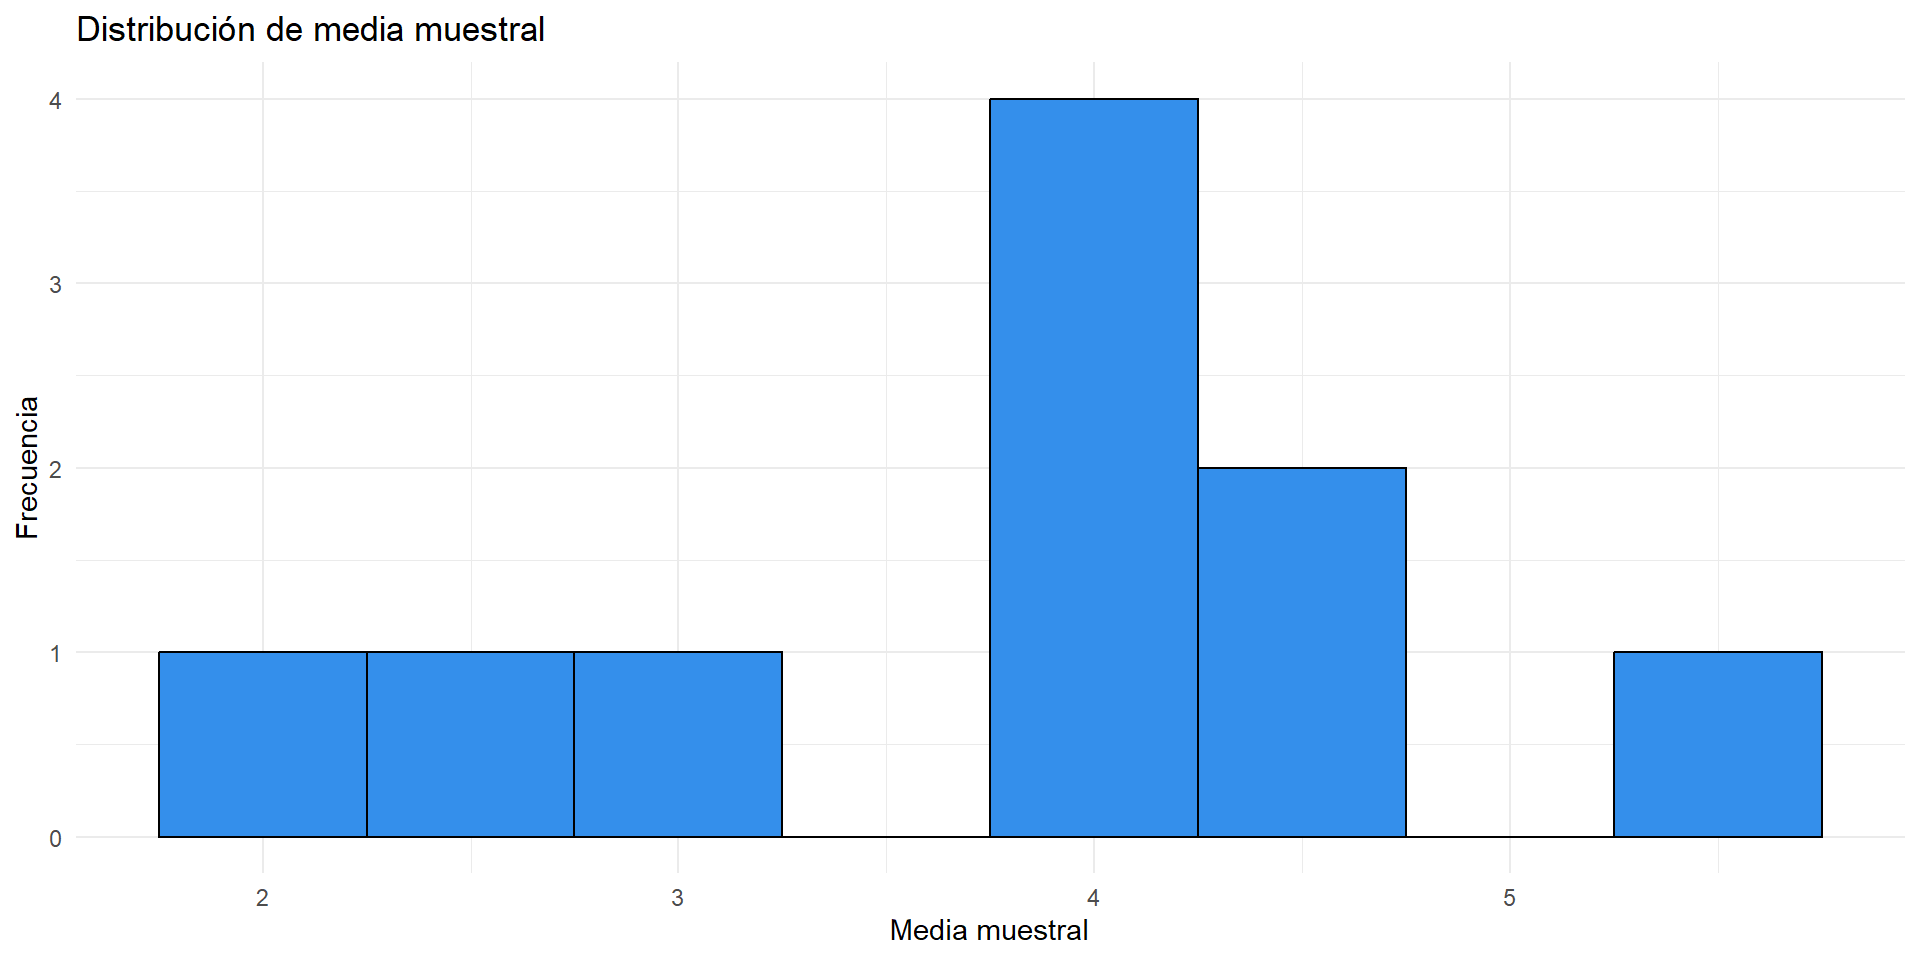
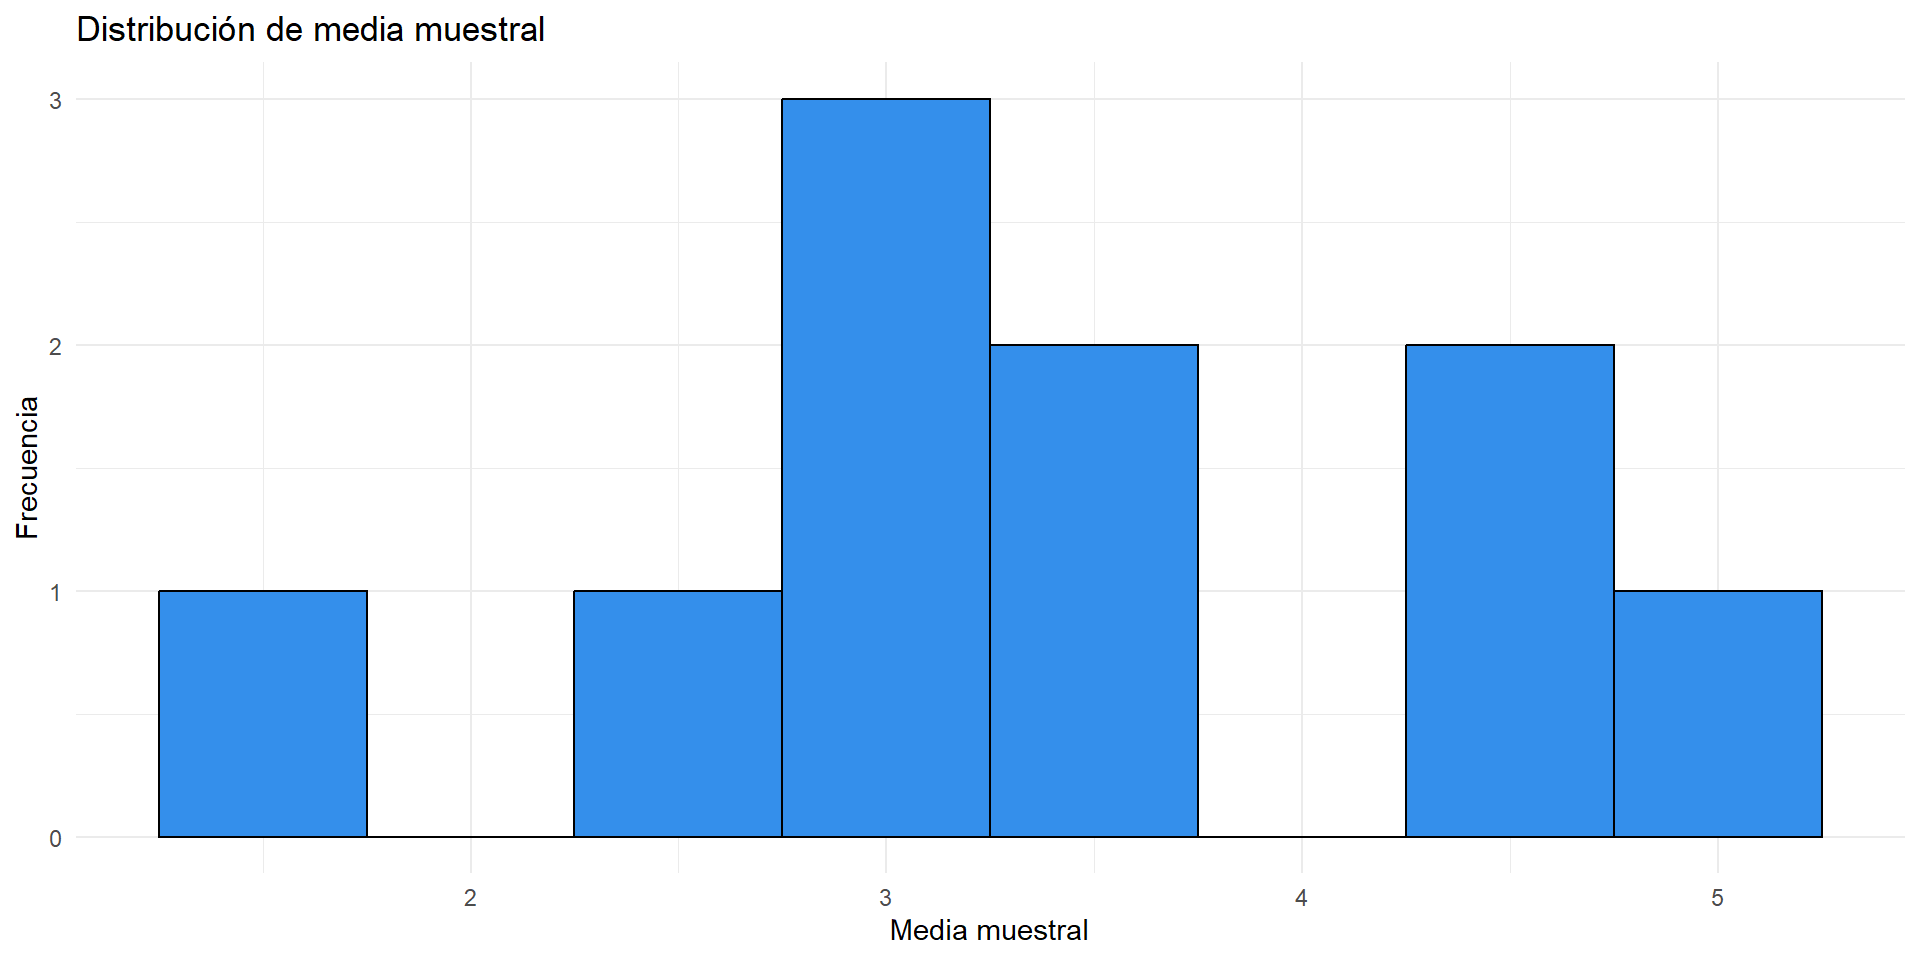
Update html

Changed region(s): [[0.0625, 0.0938, 0.625, 0.875], [0.625, 0.3438, 0.9688, 0.875]]

diff --git a/clase4/prob_zscore.html b/clase4/prob_zscore.html
@@ -772,18 +772,18 @@ Probabilidad, Z-Score y Distribuciones Muestrales
 <span id="cb1-7"><a href="#cb1-7"></a></span>
 <span id="cb1-8"><a href="#cb1-8"></a>muestra_de_5</span></code><button title="Copy to Clipboard" class="code-copy-button"><i class="bi"></i></button></pre></div>
 <div class="cell-output cell-output-stdout">
-<pre><code>[1] 6 3 6 6 6</code></pre>
+<pre><code>[1] 2 2 4 6 4</code></pre>
 </div>
 <div class="sourceCode cell-code" id="cb3"><pre class="sourceCode numberSource r number-lines code-with-copy"><code class="sourceCode r"><span id="cb3-1"><a href="#cb3-1"></a><span class="do">## Y calculemos su media</span></span>
 <span id="cb3-2"><a href="#cb3-2"></a><span class="fu">mean</span>(muestra_de_5)</span></code><button title="Copy to Clipboard" class="code-copy-button"><i class="bi"></i></button></pre></div>
 <div class="cell-output cell-output-stdout">
-<pre><code>[1] 5.4</code></pre>
+<pre><code>[1] 3.6</code></pre>
 </div>
 <div class="sourceCode cell-code" id="cb5"><pre class="sourceCode numberSource r number-lines code-with-copy"><code class="sourceCode r"><span id="cb5-1"><a href="#cb5-1"></a><span class="do">## Otra manera de calcular la media</span></span>
 <span id="cb5-2"><a href="#cb5-2"></a><span class="do">## de una muestra de 5</span></span>
 <span id="cb5-3"><a href="#cb5-3"></a><span class="fu">sample</span>(dado, <span class="dv">5</span>, <span class="at">replace =</span> <span class="cn">TRUE</span>) <span class="sc">%&gt;%</span> <span class="fu">mean</span>()</span></code><button title="Copy to Clipboard" class="code-copy-button"><i class="bi"></i></button></pre></div>
 <div class="cell-output cell-output-stdout">
-<pre><code>[1] 3.8</code></pre>
+<pre><code>[1] 3.4</code></pre>
 </div>
 </div>
 </div><div class="column" style="width:50%;">
@@ -807,17 +807,17 @@ Probabilidad, Z-Score y Distribuciones Muestrales
 <span id="cb7-7"><a href="#cb7-7"></a></span>
 <span id="cb7-8"><a href="#cb7-8"></a>muestra_de_5</span></code><button title="Copy to Clipboard" class="code-copy-button"><i class="bi"></i></button></pre></div>
 <div class="cell-output cell-output-stdout">
-<pre><code>[1] 3 2 3 3 1</code></pre>
+<pre><code>[1] 6 3 1 2 3</code></pre>
 </div>
 <div class="sourceCode cell-code" id="cb9"><pre class="sourceCode numberSource r number-lines code-with-copy"><code class="sourceCode r"><span id="cb9-1"><a href="#cb9-1"></a><span class="do">## Y calculemos su media</span></span>
 <span id="cb9-2"><a href="#cb9-2"></a><span class="fu">mean</span>(muestra_de_5)</span></code><button title="Copy to Clipboard" class="code-copy-button"><i class="bi"></i></button></pre></div>
 <div class="cell-output cell-output-stdout">
-<pre><code>[1] 2.4</code></pre>
+<pre><code>[1] 3</code></pre>
 </div>
 <div class="sourceCode cell-code" id="cb11"><pre class="sourceCode numberSource r number-lines code-with-copy"><code class="sourceCode r"><span id="cb11-1"><a href="#cb11-1"></a><span class="do">## Otra manera de calcular la media de una muestra de 5</span></span>
 <span id="cb11-2"><a href="#cb11-2"></a><span class="fu">sample</span>(dado, <span class="dv">5</span>, <span class="at">replace =</span> <span class="cn">TRUE</span>) <span class="sc">%&gt;%</span> <span class="fu">mean</span>()</span></code><button title="Copy to Clipboard" class="code-copy-button"><i class="bi"></i></button></pre></div>
 <div class="cell-output cell-output-stdout">
-<pre><code>[1] 3.6</code></pre>
+<pre><code>[1] 2.6</code></pre>
 </div>
 </div>
 </section>
